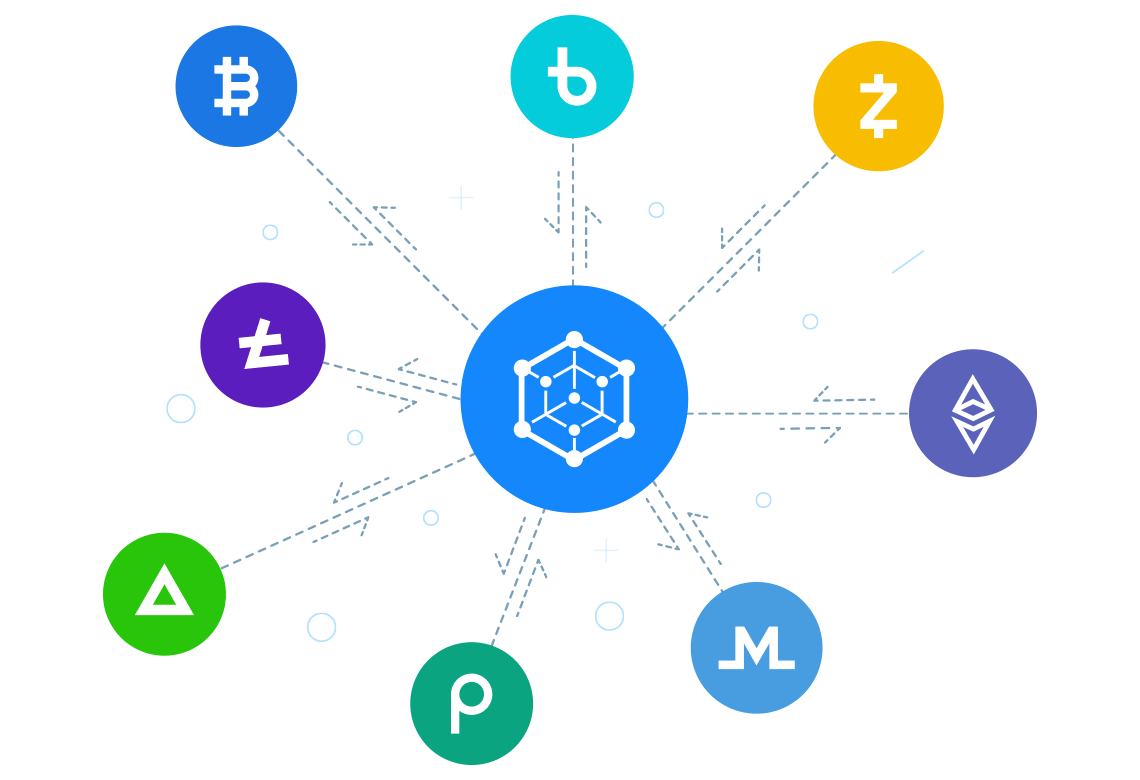
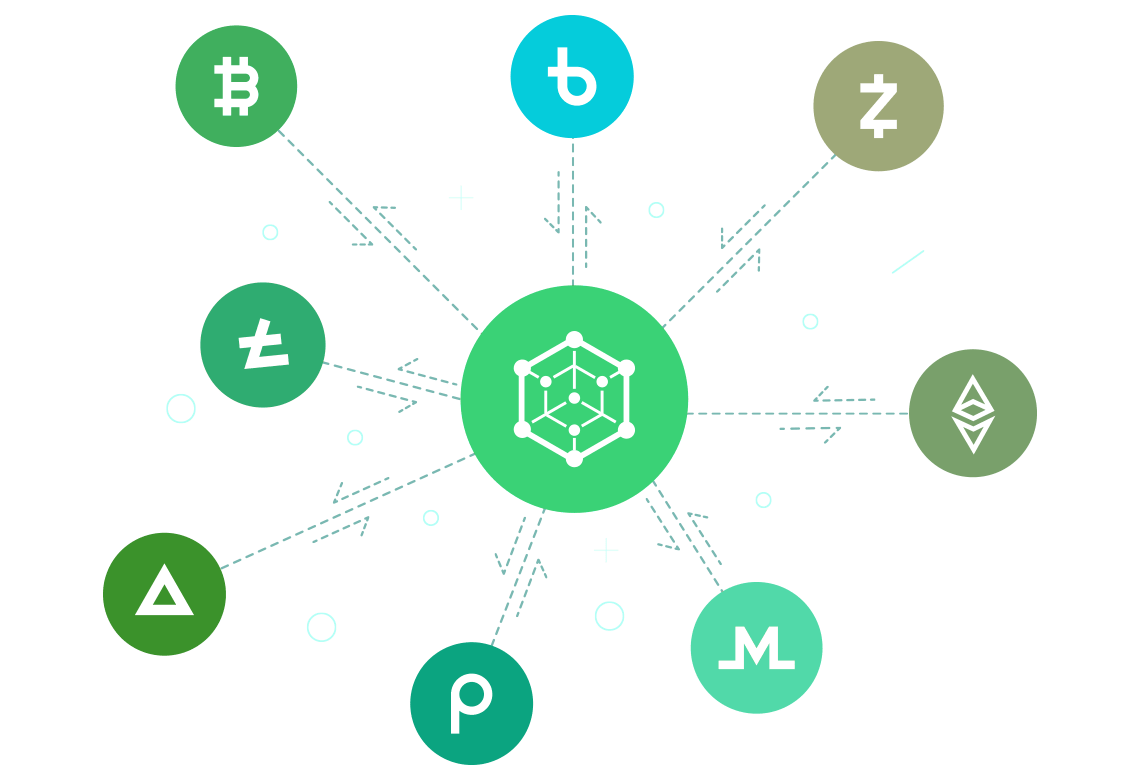
Color update

diff --git a/index.html b/index.html
@@ -32,8 +32,13 @@
                             <li><a class="nav-link scrollto" href="">Home</a></li>
                             <li class="dropdown"><a href="about.html"><span>About</span> <i
                                         class="bi bi-chevron-down"></i></a>
-                            <li><a class="nav-link scrollto" href="careers.html">Careers</a></li>
-                            <li><a class="nav-link scrollto" href="contact.html">Contact Us</a></li>
+                            <li class="dropdown"><a href="#getServices"><span>Products</span> <i
+                                        class="bi bi-chevron-down"></i></a>
+                                <ul>
+                                    <li><a href="about.html">For Businesses</a></li>
+                                    <li><a href="about.html">For Individuals</a></li>
+                                </ul>
+                            <li><a class="nav-link scrollto" href="contact.html">Contact</a></li>
                         </ul>
                         <i class="bi bi-list mobile-nav-toggle"></i>
                     </nav>
@@ -63,10 +68,10 @@
                                 </div>
                                 <div class="home-image-container">
                                     <img class="home-page-image" src="images/phone-crypto.png" alt="phone">
-                                    <div id="blob-container">
+                                    <!-- <div id="blob-container">
                                         <img class="cryptocurrency-image" src="images/cryptocurrency.png" alt="crypto">
                                         <img class="bitcoin-image" src="images/bitcoin1.png" alt="bitcoin">
-                                    </div>
+                                    </div> -->
                                 </div>
                             </div>
                         </div>
@@ -120,7 +125,7 @@
                     </div>
                 </div>
             </section>
-            <section class="section pt-0" id="cointribe-mobile-wallet" >
+            <section class="section pt-0" id="cointribe-mobile-wallet">
                 <div class="container">
                     <div class="nk-block nk-block-text-wrap">
                         <div
@@ -138,7 +143,8 @@
                                 <div class="nk-block-text animated" data-animate="fadeInUp" data-delay="0.2"
                                     id="cointribe-mobile-resp">
                                     <div class="pb-5">
-                                        <h2 class="title title-regular" id="heading" style="padding-top: 50px;">Cointribe Wallet</h2>
+                                        <h2 class="title title-regular" id="heading" style="padding-top: 50px;">
+                                            Cointribe Wallet</h2>
                                         <p>Mobile wallet meets trading app.</p>
                                     </div>
                                     <ul class="list list-check list-check-s3 list-check-s3-sm"
@@ -179,9 +185,10 @@
                                 <div class="nk-block-text animated" data-animate="fadeInUp" data-delay="0.2"
                                     style="margin-bottom: 30px;" id="why-cointribe-div">
                                     <div class="pb-5">
-                                        <h2 class="title title-regular" id="heading"><b
-                                                style="color: #28986b;">Why</b> Cointribe?</h2>
-                                        <p>Make life easy for your customers. Embed our platform into your store for
+                                        <h2 class="title title-regular" id="heading"><b style="color: #28986b;">Why</b>
+                                            Cointribe?</h2>
+                                        <p style="font-size: 18px;">Make life easy for your customers. Embed our
+                                            platform into your store for
                                             instant digital asset payments – with zero fees or cashbacks.</p>
                                     </div>
                                     <ul class="list list-check list-check-s3 list-check-s3-sm" style="list-style: none;"
@@ -254,7 +261,7 @@
                         <img class="features-image" src="images/payment.png" alt="about">
                         <h3>Multiple Payment Options</h3>
                         <p>We give our clients a wide array of options to pay us. These include:</p>
-                        <ul>
+                        <ul style="list-style: circle;">
                             <li>Swift Transfer</li>
                             <li>Single Euro Payments Area (SEPA)</li>
                         </ul>
@@ -266,7 +273,7 @@
                     <div class="get-started-now-container">
                         <div class="section-head text-center animated" data-animate="fadeInUp" data-delay="0.1">
                             <h2 class="title title-regular" id="heading">Get started now</h2>
-                            <p style="font-size: 18px; color: #007aff; margin-top: 20px; font-weight: 600;">Can’t wait
+                            <p style="font-size: 18px; margin-top: 20px; font-weight: 600;">Can’t wait
                                 to try Cointribe? You don’t have to! Getting started is a matter of
                                 minutes.</p>
                         </div>
@@ -307,7 +314,8 @@
                             </div>
                         </div>
                         <div class="text-center pt-3 animated" data-animate="fadeInUp" data-delay="0.5">
-                            <a href="https://app.cointribe.io/register" class="purchase-now-button" id="gsn-button">Create an account</a>
+                            <a href="https://app.cointribe.io/register" class="purchase-now-button"
+                                id="gsn-button">Create an account</a>
                         </div>
                     </div>
                 </div>
@@ -315,7 +323,7 @@
         </main>
         <footer class="nk-footer bg-theme ov-h" id="footer">
             <div class="section section-sm pt-0 footer-bottom animated" data-animate="fadeInUp" data-delay="0.5">
-                <div class="container" id="footer-main-flex-container" >
+                <div class="container" id="footer-main-flex-container">
                     <div class="row justify-content-md-between  justify-content-center flex-direction-column"
                         style="margin-right: 30px; padding-top: 17px;">
                         <a class="wgs-logo-s2 d-inline-block mb-2 mb-md-0">
@@ -328,7 +336,7 @@
                             <li><a href="contact.html">Contact Us</a></li>
                             <li><a href="about.html">About Us</a></li>
                             <li><a href="careers.html">Careers</a></li>
-                            
+
                         </div>
                         <div style="min-width: 150px;">
                             <h6>Legal</h6>
@@ -354,11 +362,11 @@
                                     class="img-fluid">&ensp; Ghana</p>
                             <p><img src="https://flagicons.lipis.dev/flags/4x3/ci.svg" alt="" width="20px"
                                     class="img-fluid">&ensp; Côte d’Ivoire</p>
-                          
+
                         </div>
-						<div style="margin-left: -20px; min-width: 150px;" id="countries-lower-div">
+                        <div style="margin-left: -20px; min-width: 150px;" id="countries-lower-div">
                             <br>
-                      
+
                             <p><img src="https://flagicons.lipis.dev/flags/4x3/ml.svg" alt="" width="20px"
                                     class="img-fluid">&ensp; Mali</p>
                             <p><img src="https://flagicons.lipis.dev/flags/4x3/sn.svg" alt="" width="20px"

diff --git a/about.html b/about.html
@@ -30,8 +30,12 @@
                                 <li><a class="nav-link scrollto" href="index.html">Home</a></li>
                                 <li class="dropdown"><a href="about.html"><span>About</span> <i
                                             class="bi bi-chevron-down"></i></a>
-                                <li><a class="nav-link scrollto" href="careers.html">Careers</a></li>
-                                <li><a class="nav-link scrollto" href="contact.html">Contact</a></li>
+                                            <li class="dropdown"><a href="#getServices"><span>Products</span> <i
+                                                class="bi bi-chevron-down"></i></a>
+                                        <ul>
+                                            <li><a href="about.html">For Businesses</a></li>
+                                            <li><a href="about.html">For Individuals</a></li>
+                                        </ul>                                <li><a class="nav-link scrollto" href="contact.html">Contact</a></li>
                             </ul>
                             <i class="bi bi-list mobile-nav-toggle"></i>
                         </nav>
@@ -51,11 +55,11 @@
             <h2 class="heading">About Us</h2>
             <div class="about-us-main-container">
                 <div class="about-us-image-div">
-                    <img class="about-us" src="<?php echo Yii::getAlias('@web'); ?>/new_template/images/about.png" alt="about">
+                    <img class="about-us" src="images/about.png" alt="about">
                 </div>
                 <div class="about-us-text-div">
 
-                    <p><b style="font-size: 18px;">Cointribe has a deep understanding of the digital asset
+                    <p><b style="font-size: 17px;">Cointribe has a deep understanding of the digital asset
                             technology space having processed hundreds of millions of dollars worth of digital
                             assets.</b> We make it easy for businesses to have seamless access to crypto currencies, at
                         cost effective rates. We make it easy for businesses to move digital money globally, with more
@@ -71,12 +75,12 @@
             <h2 class="heading">Products</h2>
             <div class="products-flex-div">
                 <div class="products-div">
-                    <img class="products-image" src="<?php echo Yii::getAlias('@web'); ?>/new_template/images/employee.png" alt="about">
+                    <img class="products-image" src="images/employee.png" alt="about">
                     <h4 style="font-weight: 600;">CoinTribe for Individuals</h4>
                     <p style="font-size: 16px;">Become a global citizen. Seamlessly buy and sell crypto currencies at cost effective rates.</p>
                 </div>
                 <div class="products-div">
-                    <img class="products-image" src="<?php echo Yii::getAlias('@web'); ?>/new_template/images/budget.png" alt="about">
+                    <img class="products-image" src="images/budget.png" alt="about">
                     <h4 style="font-weight: 600;">CoinTribe for Businesses</h4>
                     <p style="font-size: 16px;">Cointribe is a crypto exchange for global businesses. We make it easy for businesses to have
                         seamless access to a wide array of crypto currencies.</p>
@@ -92,7 +96,7 @@
                     <a href="https://app.cointribe.io/login" class="purchase-now-button">Get started</a>
                 </div>
                 <div class="get-started-image-div" style="display: flex; align-items: center;">
-                    <img class="get-started-image" src="<?php echo Yii::getAlias('@web'); ?>/new_template/images/products.png" alt="about">
+                    <img class="get-started-image" src="images/products.png" alt="about">
                 </div>
             </div>
         </section>

diff --git a/css/custom.css b/css/custom.css
@@ -131,7 +131,7 @@ section {
 .navbar .active,
 .navbar .active:focus,
 .navbar li:hover>a {
-  color: #3b77b7;
+  color: #307b5d;
 }
 
 .navbar li a {
@@ -332,7 +332,7 @@ section {
 #cointribe-description {
   display: flex;
   flex-direction: column;
-  max-width: 50%;
+  max-width: 55%;
   padding-left: 80px;
   padding-right: 150px;
   text-align: left;
@@ -349,7 +349,7 @@ section {
 
   .home-image-container #blob-container {
     margin-left: -50px;
-    margin-top: -50px;
+    margin-top: -60px;
   }
 
   #cointribe-description .title {
@@ -376,9 +376,8 @@ section {
 }
 
 #cointribe-description p {
-  font-size: 18px;
+  font-size: 20px;
   text-align: left;
-  font-weight: 500;
 }
 
 #home-page-row-container {
@@ -425,7 +424,7 @@ section {
   border: 1.8px solid #28986b;
   box-shadow: 1px 1px 6px 0 rgb(213, 209, 209);
   transition: 0.2s;
-  color: #28986b; 
+  color: #307b5d; 
 }
 
 .purchase-now-button {
@@ -445,7 +444,7 @@ section {
 
 .purchase-now-button:hover {
   box-shadow: 2px 2px 6px 0 rgb(177, 174, 174);
-  background-color: #3b77b7;
+  background-color: #307b5d;
   transition: 0.2s;
   color: white;
 }
@@ -473,8 +472,8 @@ section {
 
 
 .cryptocurrency-image {
-  width: 80px;
-  height: 80px;
+  width: 60px;
+  height: 60px;
   margin-bottom: 150px;
   margin-left: -80px;
 }
@@ -583,6 +582,7 @@ section {
 #list li {
   display: flex;
   align-items: center;
+  margin-top: 10px;
 }
 
 #buy-sell-second-container h4 {
@@ -595,9 +595,10 @@ section {
 }
 
 .list-numbering {
-  width: 60px;
-  height: 60px;
-  margin-right: 6px;
+  width: 30px;
+  height: 30px;
+  margin-right: 10px;
+  
 }
 
 #heading {
@@ -687,14 +688,14 @@ section {
 .features-top-container div, .features-bottom-container div{
   display: flex;
   flex-direction: column;
-  padding: 20px;
+  padding: 25px;
   width: 300px;
   height: 370px;
   margin-bottom: 40px;
   border-radius: 10px;
   background-color: white;
   border: 1px solid rgb(234, 231, 231);
-  box-shadow: 0 2px 16px 0 rgb(220, 214, 214);
+  box-shadow: 0 2px 16px 0 rgb(231, 229, 229);
 }
 .features-top-container h3, .features-bottom-container h3{
   margin-bottom: 10px;
@@ -706,9 +707,9 @@ section {
   margin-bottom: 15px;
 }
 .features-top-container div:hover, .features-bottom-container div:hover{
-  border: 1px solid #b2a7a7;
-  transform: scale(1.1);
-  transition: 0.6s;
+  border: 1px solid #cfcbcb;
+  box-shadow: 0 5px 20px 0 rgb(195, 190, 190);
+  transition: 0.5s;
 }
 #know-more-row h2{
   font-size: 45px;
@@ -841,7 +842,11 @@ section {
   background-color: white;
   margin-bottom: 15px;
   border-radius: 5px;
-  box-shadow: 0 2px 8px 0 rgb(212, 209, 209);
+  box-shadow: 0 10px 15px 0 rgb(222, 218, 218);
+}
+.products-div:hover{
+  transition: 0.5s;
+  box-shadow: 0 10px 20px 0 rgb(188, 184, 184);
 }
 .products-image{
   width: 50px;
@@ -1439,7 +1444,7 @@ section {
   }
 
   #why-cointribe-div p {
-    font-size: 17px;
+    font-size: 18px;
   }
 
   #why-cointribe-div .list li {
@@ -1486,7 +1491,7 @@ section {
     border-radius: 10px;
     background-color: white;
     border: 1px solid rgb(234, 231, 231);
-    box-shadow: 0 2px 16px 0 rgb(220, 214, 214);
+    box-shadow: 0 2px 16px 0 rgb(243, 242, 242);
   }
   .features-top-container{
     margin-bottom: 20px;

diff --git a/contact.html b/contact.html
@@ -30,8 +30,12 @@
                                 <li><a class="nav-link scrollto" href="index.html">Home</a></li>
                                 <li class="dropdown"><a href="about.html"><span>About</span> <i
                                             class="bi bi-chevron-down"></i></a>
-                                <li><a class="nav-link scrollto" href="careers.html">Careers</a></li>
-                                <li><a class="nav-link scrollto" href="contact.html">Contact</a></li>
+                                            <li class="dropdown"><a href="#getServices"><span>Products</span> <i
+                                                class="bi bi-chevron-down"></i></a>
+                                        <ul>
+                                            <li><a href="about.html">For Businesses</a></li>
+                                            <li><a href="about.html">For Individuals</a></li>
+                                        </ul>                                <li><a class="nav-link scrollto" href="contact.html">Contact</a></li>
                             </ul>
                             <i class="bi bi-list mobile-nav-toggle"></i>
                         </nav>
@@ -53,13 +57,13 @@
                 <div class="products-div">
                     <img class="products-image" src="images/acquisition.png" alt="about">
                     <h4 style="font-weight: 600;">Sales and Partnerships</h4>
-                    <p style="font-size: 16px;">Interested in consuming our services or partnering with us? Reach out to us via <a href="mailto:partnerships@cointribe.io"><b style="color: rgb(53, 53, 184);;">partnerships@cointribe.io</b></a></p>
+                    <p style="font-size: 16px;">Interested in consuming our services or partnering with us? Reach out to us via <a href="mailto:partnerships@cointribe.io"><b style="color: #28986b;">partnerships@cointribe.io</b></a></p>
                 </div>
                 <div class="products-div">
                     <img class="products-image" src="images/customer-support.png" alt="about">
                     <h4 style="font-weight: 600;">Support</h4>
                     <p style="font-size: 16px;">Are you facing any issues using our platform? We’re always here to help<br>
-                    <a href="mailto:support@cointribe.io"><b style="color: rgb(53, 53, 184);">support@cointribe.io</b> </a></p>
+                    <a href="mailto:support@cointribe.io"><b style="color: #28986b;">support@cointribe.io</b> </a></p>
                 </div>
             </div>
         </section>

diff --git a/withdrawals.html b/withdrawals.html
@@ -30,8 +30,12 @@
                                 <li><a class="nav-link scrollto" href="index.html">Home</a></li>
                                 <li class="dropdown"><a href="about.html"><span>About</span> <i
                                             class="bi bi-chevron-down"></i></a>
-                                <li><a class="nav-link scrollto" href="careers.html">Careers</a></li>
-                                <li><a class="nav-link scrollto" href="contact.html">Contact</a></li>
+                                            <li class="dropdown"><a href="#getServices"><span>Products</span> <i
+                                                class="bi bi-chevron-down"></i></a>
+                                        <ul>
+                                            <li><a href="about.html">For Businesses</a></li>
+                                            <li><a href="about.html">For Individuals</a></li>
+                                        </ul>                                <li><a class="nav-link scrollto" href="contact.html">Contact</a></li>
                             </ul>
                             <i class="bi bi-list mobile-nav-toggle"></i>
                         </nav>

diff --git a/careers.html b/careers.html
@@ -94,7 +94,7 @@
         </section>
         <section>
             <div class="careers-third-row">
-                <h2 style="text-align: center;"><b style="color: #28986b;">Why</b> you should join the tribe</h2>
+                <h2 style="text-align: center;"><b style="color: #18734e;">Why</b> you should join the tribe</h2>
                 <ul style="list-style: none;" class="careers-list">
                     <li><h3>Flexibility</h3></li>
                     <ul style="margin-top: -20px;">
